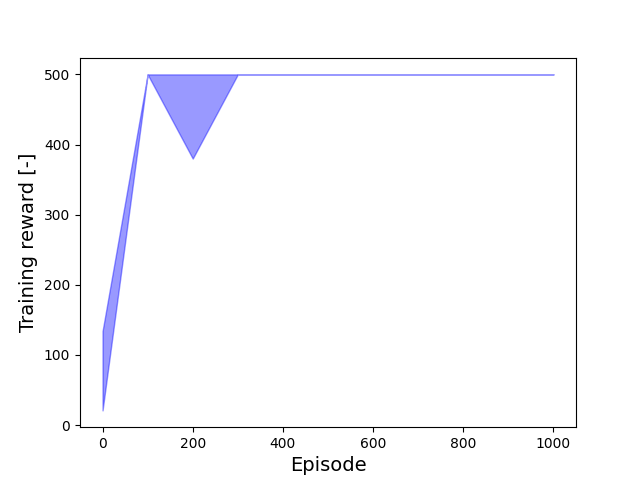
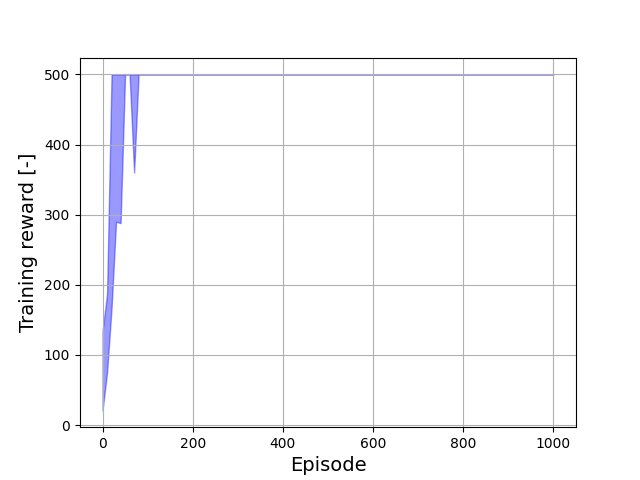
Updated README with figure

diff --git a/benchmarks/rl/cartpole v1/cartpole_v1_ppo.py b/benchmarks/rl/cartpole v1/cartpole_v1_ppo.py
@@ -124,6 +124,7 @@ if __name__ == '__main__':
     plt.fill_between(agent.eval_steps_in_training, training_returns.min, training_returns.max, color='b', alpha=0.4)
     plt.xlabel("Episode", fontsize=14)
     plt.ylabel("Training reward [-]", fontsize=14)
+    plt.grid()
     plt.close()
-    fig.savefig(os.path.join(os.getcwd(), r'figures/PPO Clip training.png'))
+    fig.savefig(os.path.join(os.getcwd(), r'figures/cartpole_returns.png'))
 

diff --git a/README.md b/README.md
@@ -1,8 +1,14 @@
 # JAXAgents
 
+<p align="center">
+  <img src="https://img.shields.io/pypi/v/jaxagents" alt="PyPI version" />
+  <img src="https://img.shields.io/pypi/pyversions/jaxagents" alt="Python versions" />
+  <img src="https://img.shields.io/github/license/amavrits/jax-agents" alt="License" />
+</p>
+
 JAXAgents is a high-performance (Multi-Agent) Reinforcement Learning library built on [JAX](https://github.com/google/jax), designed for rapid experimentation, scalable training of RL agents and fast hyperparameter tuning. It supports a variety of algorithms and environments, making it suitable for both research and practical applications.
 
-## Features
+## 🛠 Features
 
 - **RL**: Implementations of popular RL algorithms, including:
   - **Q-learning**:
@@ -30,7 +36,7 @@ pip install jaxagents
 
 *Note*: Also available on [PyPI](https://pypi.org/project/jaxagents/)
 
-## Getting Started
+## 🏁 Getting Started
 
 Here's a simple example to train a PPO agent:
 
@@ -47,7 +53,19 @@ agent.train(num_episodes=1000)
 
 For more detailed examples and usage, refer to the [documentation](https://jax-agents.readthedocs.io/en/latest/).
 
-## Documentation
+## 🚀 Performance
+
+JAXAgents enables extremely fast optimization. Below is an example of a PPO agent trained on CartPole-v1 — achieving near-optimal performance within approximately 100 episodes:
+
+<p align="center">
+  <img src="docs/assets/cartpole_returns.png" alt="Training Returns on CartPole-v1" />
+</p>
+
+<p align="center">
+  <em>Minimum and maximum returns per training episode.<br>JAXAgents enables lightning-fast learning: PPO solves CartPole-v1 in approximately 100 episodes.</em>
+</p>
+
+## 📖 Documentation
 
 Comprehensive documentation is available at [jax-agents.readthedocs.io](https://jax-agents.readthedocs.io/en/latest/), covering:
 
